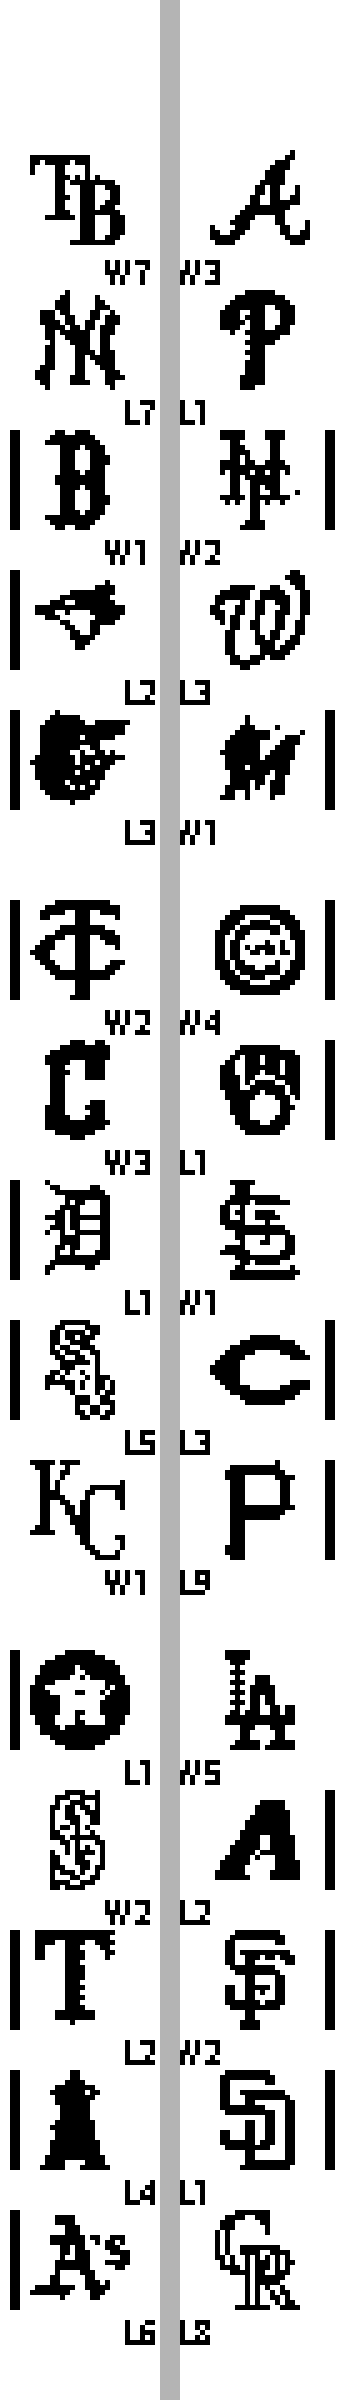
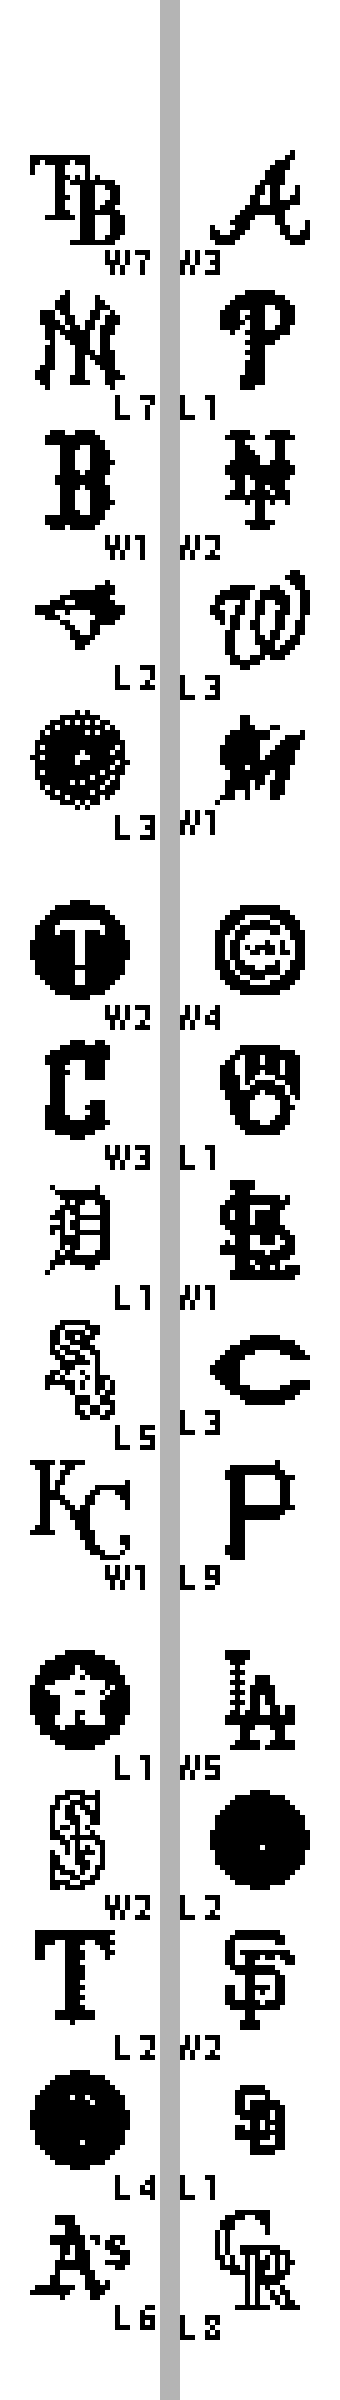
Bigger base-runner numbers, mirrored coach's boxes, clean venue names
- Base-runner jersey numbers rendered larger: 48pt (was 44pt) in the
  featured/detail view, 11pt (was 9pt) in grid-cell tiles, 10pt in the
  wide-cell pitch panel.
- Coach's boxes in the grid-cell field diagram nudged 2px down and
  mirrored 2px away from home on each side, so 1B and 3B match.
- Venue names now run through _clean_venue_name in field_view.py's
  mini-linescore and the grid-cell field diagram, so sponsor-prefixed
  names like "Oriole Park at Camden Yards" shorten to "Camden Yards"
  everywhere, not just the main header.
- Regenerated all docs/ screenshots via scripts/generate_docs.py and
  added the missing docs/demo.gif (previously excluded by .gitignore,
  which only carved out an exception for docs/*.png).

Claude-Session: https://claude.ai/code/session_01LXGcbB33AYBybUgG6oqiv9

diff --git a/src/image_box.py b/src/image_box.py
@@ -2110,8 +2110,8 @@ def draw_box(Himage, start_x, start_y, game_data, team_data, score_changed=False
                         _raw = game_data.get(_bkey)
                         _bnum = str(_raw) if _raw is not None else ''
                         if _bnum:
-                            _bb = font9.getbbox(_bnum)
-                            draw.text((_bcx - (_bb[0] + _bb[2] - 1) // 2, _bcy - (_bb[1] + _bb[3] - 1) // 2), _bnum, font=font9, fill=255)
+                            _bb = font11.getbbox(_bnum)
+                            draw.text((_bcx - (_bb[0] + _bb[2] - 1) // 2, _bcy - (_bb[1] + _bb[3] - 1) // 2), _bnum, font=font11, fill=255)
             _pc_outs_list = [i + 1 <= _pc_outs for i in range(3)]
             Himage = draw_circle(Himage, (start_x + 97 * s,  start_y + 73 * s), 6 * s, _pc_outs_list[0], outline_width=2)
             Himage = draw_circle(Himage, (start_x + 111 * s, start_y + 73 * s), 6 * s, _pc_outs_list[1], outline_width=2)
@@ -2157,8 +2157,8 @@ def draw_box(Himage, start_x, start_y, game_data, team_data, score_changed=False
                         _raw = game_data.get(_bkey)
                         _bnum = str(_raw) if _raw is not None else ''
                         if _bnum:
-                            _bb = font9.getbbox(_bnum)
-                            draw.text((_bcx - (_bb[0] + _bb[2] - 1) // 2, _bcy - (_bb[1] + _bb[3] - 1) // 2), _bnum, font=font9, fill=255)
+                            _bb = font11.getbbox(_bnum)
+                            draw.text((_bcx - (_bb[0] + _bb[2] - 1) // 2, _bcy - (_bb[1] + _bb[3] - 1) // 2), _bnum, font=font11, fill=255)
 
                 outs_list = [None] * 3
                 for i in range(1, 4):
@@ -2401,6 +2401,7 @@ def _draw_wide_right_panel(draw, Himage, rp_x, rp_y, rp_w, rp_h, header_h, game_
     """
     s = scale
     font11 = _get_font(11 * s)
+    font10 = _get_font(10 * s)   # slightly bigger than font9, for base-runner numbers
     font9  = _get_font(9 * s)
     font7  = _get_font(max(7 * s, 7))
 
@@ -2642,8 +2643,8 @@ def _draw_wide_right_panel(draw, Himage, rp_x, rp_y, rp_w, rp_h, header_h, game_
                     _raw = game_data.get(_bkey)
                     _bnum = str(_raw) if _raw is not None else ''
                     if _bnum:
-                        _bb = font9.getbbox(_bnum)
-                        draw.text((_bcx - (_bb[0] + _bb[2] - 1) // 2, _bcy - (_bb[1] + _bb[3] - 1) // 2), _bnum, font=font9, fill=255)
+                        _bb = font10.getbbox(_bnum)
+                        draw.text((_bcx - (_bb[0] + _bb[2] - 1) // 2, _bcy - (_bb[1] + _bb[3] - 1) // 2), _bnum, font=font10, fill=255)
 
         # ── Outs circles: left side, below bases ──────────────────────
         outs_list = [i + 1 <= _outs_count for i in range(3)]
@@ -3252,17 +3253,23 @@ def _draw_field_cell(draw, Himage, fx, fy, fw, fh, game_data, scale=1, y_offset=
     # nothing.
     _coach_scale = max(FSCALE, 0.45)
 
-    _coach_px_nudge = 2  # fine-tune: extra px along the line, away from home
+    _coach_px_nudge = 2    # fine-tune: extra px along the line, away from home
+    _coach_screen_dx = -2  # fine-tune: flat screen-space shift, mirrored per side (left for 3B)
+    _coach_screen_dy = 2   # fine-tune: flat screen-space shift, down (same both sides)
 
     def _coach_box_poly(u, n):
         da_near = 50 - 16 / 2
         da_far  = 50 + 16 / 2
         dp_near = 15
         dp_far  = 15 + 5
+        # Mirror the horizontal shift by side so 1B and 3B look symmetric:
+        # u[0] < 0 is the 3B (left) side, keeping the shift as-is (left);
+        # u[0] > 0 is the 1B (right) side, flipping it to move right instead.
+        _dx = _coach_screen_dx if u[0] < 0 else -_coach_screen_dx
         pts = []
         for da, dp in [(da_near, dp_near), (da_far, dp_near), (da_far, dp_far), (da_near, dp_far)]:
-            pts.append((int(HX + (da * u[0] + dp * n[0]) * _coach_scale + _coach_px_nudge * u[0]),
-                         int(HY - (da * u[1] + dp * n[1]) * _coach_scale - _coach_px_nudge * u[1])))
+            pts.append((int(HX + (da * u[0] + dp * n[0]) * _coach_scale + _coach_px_nudge * u[0]) + _dx,
+                         int(HY - (da * u[1] + dp * n[1]) * _coach_scale - _coach_px_nudge * u[1]) + _coach_screen_dy))
         return pts
 
     _u1, _n1 = (0.7071, 0.7071), (0.7071, -0.7071)    # home->first, outward
@@ -3460,7 +3467,7 @@ def draw_triple_box(Himage, start_x, start_y, game_data, team_data,
     # A tight white rectangle erases the infield polygon lines behind the glyphs.
     # Max width is capped so the label stays right of the home-plate dirt area;
     # font shrinks (never truncates) until the full name fits inside that cap.
-    _venue_name = game_data.get('venue', '') or ''
+    _venue_name = _clean_venue_name(game_data.get('venue', '')) or ''
     if _venue_name:
         _vy        = start_y + int(TOTAL_H) + 9
         _field_bot = start_y + int(150 * scale)

diff --git a/src/field_view.py b/src/field_view.py
@@ -3,6 +3,7 @@ import math
 from PIL import Image, ImageDraw, ImageFont, ImageOps
 
 from generate_image import picdir, _logo_small
+from image_utils import _clean_venue_name
 from stadium_polygons import get_polygon, get_infield_polygon
 
 EPD_WIDTH = 800
@@ -169,7 +170,8 @@ _COACH_CENTER_DIST_FT = 50   # distance from home along the line to box centre
 _COACH_LINE_GAP_FT    = 15   # gap from the foul line to the box's near edge
 _COACH_LENGTH_FT      = 16   # along the foul line
 _COACH_WIDTH_FT       = 5    # into foul territory
-_COACH_PX_NUDGE       = 2    # fine-tune: extra px along the line, away from home
+_COACH_PX_NUDGE       = 4    # fine-tune: extra px along the line, away from home
+_COACH_PERP_NUDGE     = 2    # fine-tune: extra px perpendicular, toward home plate
 
 
 def _coach_box_poly(u, n):
@@ -183,8 +185,8 @@ def _coach_box_poly(u, n):
     dp_far  = _COACH_LINE_GAP_FT + _COACH_WIDTH_FT
     pts = []
     for da, dp in [(da_near, dp_near), (da_far, dp_near), (da_far, dp_far), (da_near, dp_far)]:
-        x = hx + (da * u[0] + dp * n[0]) * FIELD_SCALE + _COACH_PX_NUDGE * u[0]
-        y = hy + (da * u[1] + dp * n[1]) * FIELD_SCALE + _COACH_PX_NUDGE * u[1]
+        x = hx + (da * u[0] + dp * n[0]) * FIELD_SCALE + _COACH_PX_NUDGE * u[0] - _COACH_PERP_NUDGE * n[0]
+        y = hy + (da * u[1] + dp * n[1]) * FIELD_SCALE + _COACH_PX_NUDGE * u[1] - _COACH_PERP_NUDGE * n[1]
         pts.append((int(x), int(y)))
     return pts
 
@@ -613,7 +615,7 @@ def _draw_mini_linescore(draw, fonts, data):
     draw.text((rhe_x+18, hy2), str(data.get('home_hits',   0)), font=fonts['f9'], fill=0)
     draw.text((rhe_x+36, hy2), str(data.get('home_errors', 0)), font=fonts['f9'], fill=0)
 
-    venue = data.get('venue', '')
+    venue = _clean_venue_name(data.get('venue', ''))
     if venue:
         draw.text((x, hy2 + 14), venue, font=fonts['f9'], fill=0)
 

diff --git a/src/image_featured.py b/src/image_featured.py
@@ -95,7 +95,7 @@ def draw_live_fullscreen_game(game_data, team_data, config=None):
     f28  = _get_font(28)    # between-innings pitcher + SV badge
     f36  = _get_font(36)    # pitch info right-aligned
     f42  = _get_font(42)    # BSO labels + pitcher/batter + team abbreviations
-    f44  = _get_font(44)    # runner jersey numbers inside bases
+    f44  = _get_font(48)    # runner jersey numbers inside bases
     f56  = _get_font(56)    # header inning + last-event text
     f72  = _get_font(72)    # R / H / E values in score rows
 
